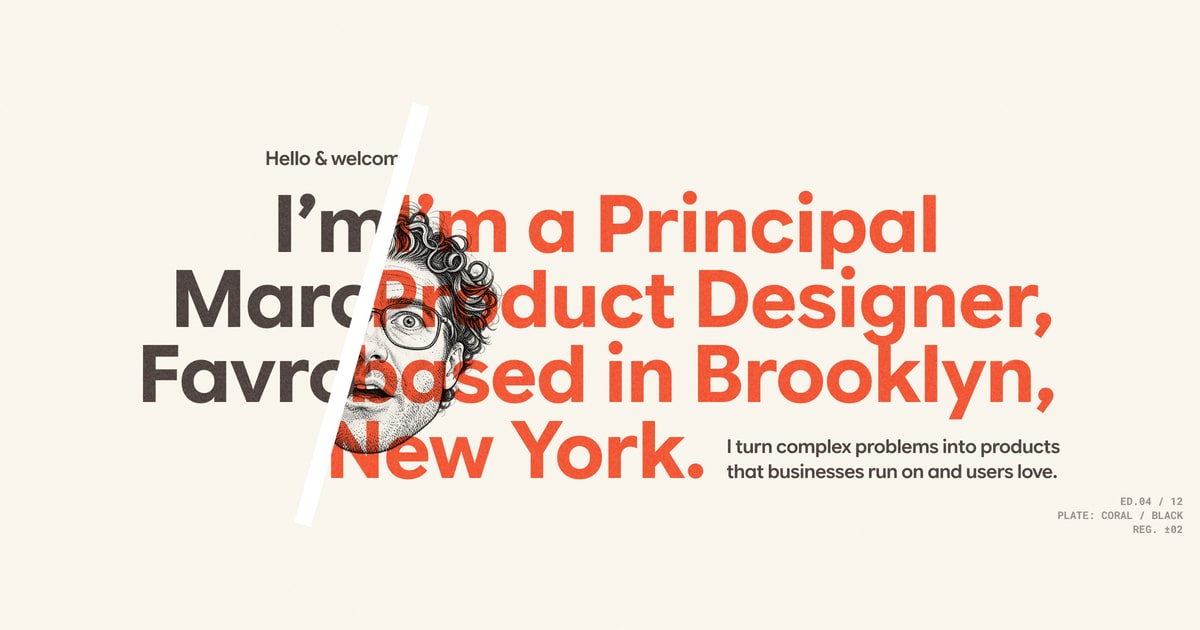
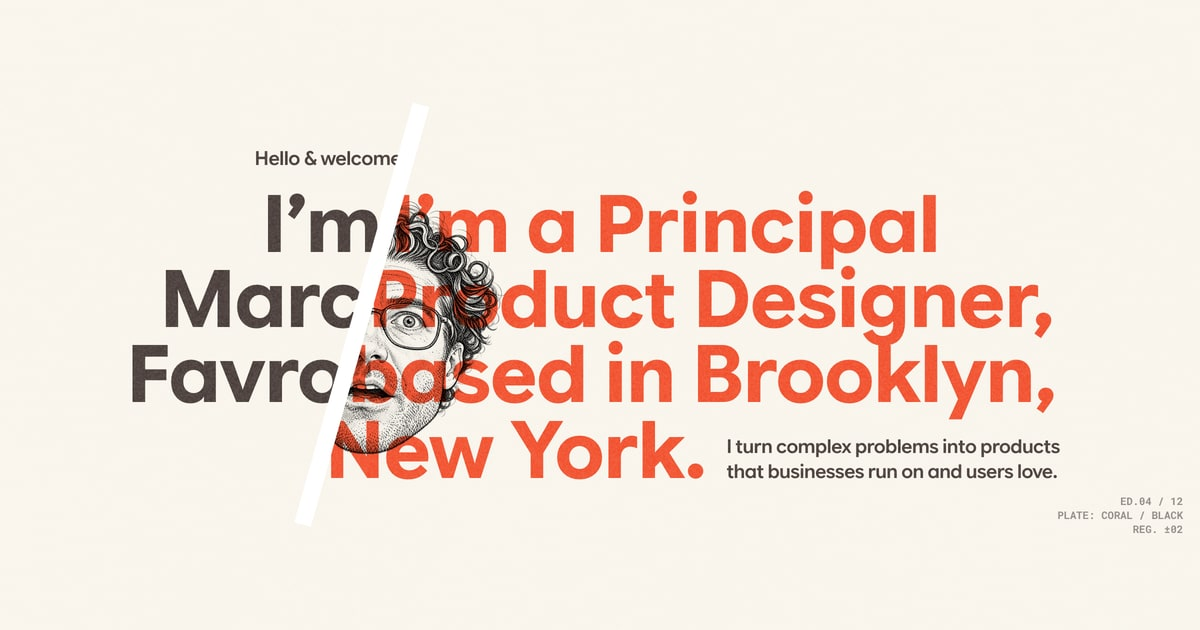
Shift Hero 2's name lockup left so the slash clears the c
Moves the eyebrow and name 12px left of the Figma (and widens the stacked
crop to match), and regenerates the share card from the updated hero.

Changed region(s): [[0.0925, 0.4222, 0.3083, 0.6635], [0.2158, 0.3016, 0.3392, 0.4222], [0.2158, 0.2413, 0.3392, 0.2714]]

diff --git a/src/lib/hero-editions.ts b/src/lib/hero-editions.ts
@@ -148,12 +148,14 @@ export const HERO_EDITIONS: HeroEdition[] = [
       size: 91.333, lineHeight: 86.462, color: "#f84d2d", weight: 700, blend: "multiply", z: 3,
     },
     subline: { lines: block(SUBLINE_B, 833, 426.7, 27.55), size: 21.863, color: INK, weight: 600, tracking: -0.02, z: 3 },
-    eyebrow: { lines: [{ text: HERO_EYEBROW, x: 304, y: 95.7 }], size: 22.253, color: INK, weight: 600, tracking: -0.02, z: 4 },
+    eyebrow: { lines: [{ text: HERO_EYEBROW, x: 292, y: 95.7 }], size: 22.253, color: INK, weight: 600, tracking: -0.02, z: 4 },
+    // Eyebrow + name sit 12px left of the Figma so the slash clears the
+    // opening of "Marc"'s c.
     name: {
       lines: [
-        { text: HERO_NAME[0], x: 449, y: 145.7, anchor: "right" },
-        { text: HERO_NAME[1], x: 429, y: 231.7, anchor: "right" },
-        { text: HERO_NAME[2], x: 409, y: 318.7, anchor: "right" },
+        { text: HERO_NAME[0], x: 437, y: 145.7, anchor: "right" },
+        { text: HERO_NAME[1], x: 417, y: 231.7, anchor: "right" },
+        { text: HERO_NAME[2], x: 397, y: 318.7, anchor: "right" },
       ],
       size: 91.333, lineHeight: 86.462, color: INK, weight: 700, z: 4,
     },
@@ -166,7 +168,7 @@ export const HERO_EDITIONS: HeroEdition[] = [
     // Figma bounding box (337, 39.7, 155.1 × 486.6).
     rules: [{ x: 164.55, y: 272.97, w: 500, h: 20, color: "#fff", rotate: -74.23, z: 5 }],
     meta: { right: 1356.5, y: 493.9, color: META_GREY, z: 1 },
-    cluster: { x: 139, y: 30, w: 490, h: 506 },
+    cluster: { x: 127, y: 30, w: 502, h: 506 },
     mobileStatementColor: "#f84d2d",
   },
   // ---------- hero 3 · 254:273366 — flat coral, white ----------
